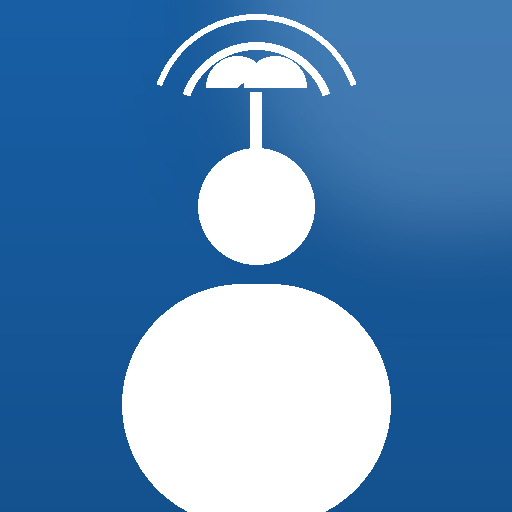
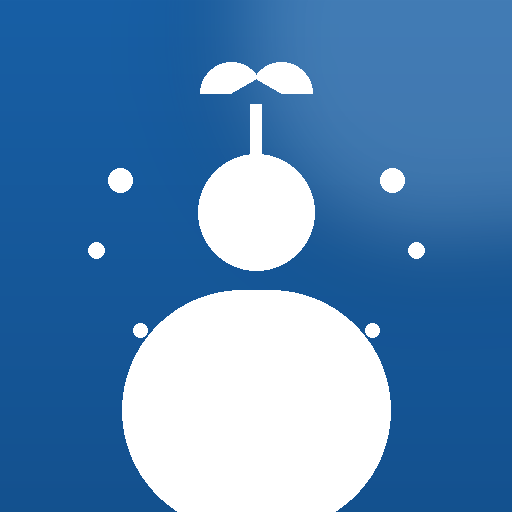
fix(experts): 专家团头像语义修订（会运营改胸前心形徽章、种草改身侧星点传播）+ make_team_avatars.py 同步

diff --git a/assets/make_team_avatars.py b/assets/make_team_avatars.py
@@ -98,10 +98,10 @@ def icon_data():
     save(img, "brand-ops-data-analyst.png")
 
 
-# ---------- 3. 会运营：人物 + 会员双心 ----------
+# ---------- 3. 会运营：人物 + 胸前会员心形徽章 + 环绕关系环 ----------
 def icon_member():
     img, d = base_canvas()
-    person(d, cx=256, head_cy=190, head_r=58, body_top=270, body_w=136, color=WHITE)
+    person(d, cx=256, head_cy=186, head_r=58, body_top=266, body_w=136, color=WHITE)
 
     def heart(d, cx, cy, r, color):
         d.ellipse([cx - r, cy - r * 0.9, cx, cy + r * 0.2], fill=color)
@@ -109,26 +109,27 @@ def icon_member():
         d.polygon([(cx - r * 0.98, cy - r * 0.1), (cx + r * 0.98, cy - r * 0.1),
                    (cx, cy + r * 1.25)], fill=color)
 
-    # 双心环绕（品牌与会员的双向关系）
-    heart(d, 150, 150, 40, WHITE)
-    heart(d, 362, 150, 40, WHITE)
-    # 连接弧线（关系纽带）
-    d.arc([110, 60, 402, 240], start=200, end=340, fill=WHITE, width=10)
+    # 胸前心形徽章（会员资产），品牌蓝心嵌套白心
+    heart(d, 256, 330, 52, BRAND)
+    heart(d, 256, 330, 34, WHITE)
+    # 左右关系环（品牌↔会员双向），避开头部
+    d.arc([96, 210, 216, 330], start=120, end=250, fill=WHITE, width=10)
+    d.arc([296, 210, 416, 330], start=290, end=60, fill=WHITE, width=10)
     save(img, "brand-ops-member-expert.png")
 
 
-# ---------- 4. 种草：人物 + 内容嫩芽 ----------
+# ---------- 4. 种草：人物 + 头顶嫩芽 + 身侧星点传播 ----------
 def icon_content():
     img, d = base_canvas()
-    person(d, cx=256, head_cy=206, head_r=58, body_top=284, body_w=134, color=WHITE)
-    # 头顶嫩芽（种草=培育内容）
-    d.line([(256, 148), (256, 92)], fill=WHITE, width=12)
-    # 两片叶
-    d.pieslice([206, 56, 268, 118], start=180, end=320, fill=WHITE)
-    d.pieslice([244, 56, 306, 118], start=180, end=360, fill=WHITE)
-    # 两侧传播波纹
-    for r, w in ((78, 8), (106, 6)):
-        d.arc([256 - r, 120 - r, 256 + r, 120 + r], start=200, end=340, fill=WHITE, width=w)
+    person(d, cx=256, head_cy=212, head_r=58, body_top=290, body_w=134, color=WHITE)
+    # 头顶嫩芽（种草=培育内容）：茎 + 两片对称叶
+    d.line([(256, 154), (256, 104)], fill=WHITE, width=12)
+    d.pieslice([200, 62, 262, 124], start=180, end=330, fill=WHITE)
+    d.pieslice([250, 62, 312, 124], start=210, end=360, fill=WHITE)
+    # 身侧传播星点（内容扩散），不再用头顶波纹
+    for sx, sy, r in ((120, 180, 12), (96, 250, 8), (392, 180, 12), (416, 250, 8),
+                      (140, 330, 7), (372, 330, 7)):
+        d.ellipse([sx - r, sy - r, sx + r, sy + r], fill=WHITE)
     save(img, "brand-ops-content-expert.png")
 
 
